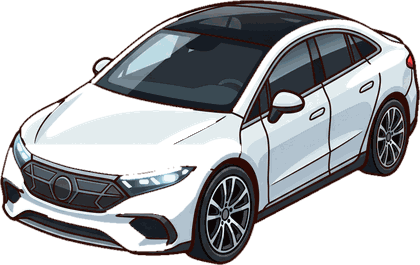
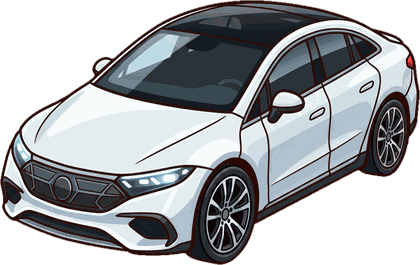
Parking : 6 voitures et 5 motos max (plus de « Grande » place), 4e niveau « Parking souterrain » (11 places) ; voiture électrique et autres carrosseries blanches détourées sans trous

diff --git a/js/assets.js b/js/assets.js
@@ -1,3 +1,3 @@
 /* généré par tools/manifest.py */
 window.ASSETS = ["ach-aga100", "ach-agr3", "ach-bets50", "ach-bets500", "ach-boo50", "ach-car1", "ach-car7", "ach-cards30", "ach-cards60", "ach-club10", "ach-combi20", "ach-combi3", "ach-cool50", "ach-cr10", "ach-crp25", "ach-dance30", "ach-deal10", "ach-deal50", "ach-decos5", "ach-first-bet", "ach-garage3", "ach-gold5", "ach-hodl", "ach-jackpot", "ach-look2", "ach-lvl10", "ach-lvl20", "ach-mine10", "ach-mine200", "ach-prop1", "ach-prop4", "ach-quests5", "ach-resell25", "ach-rigmax", "ach-roul50", "ach-roul500", "ach-scr50", "ach-scr500", "ach-ser1", "ach-ser5", "ach-skin3", "ach-slots4", "ach-sneak5", "ach-spin100", "ach-spin1000", "ach-stk10", "ach-stock50", "ach-streak7", "ach-tip20", "ach-w100k", "ach-w10k", "ach-w1m", "ach-watch3", "ach-win10", "ach-win100", "ach-win500", "act-collab", "act-live", "act-rest", "act-shoot", "act-trip", "app-agence", "app-bank", "app-bets", "app-binder", "app-boosters", "app-crypto", "app-immo", "app-missions", "app-msg", "app-objets", "app-settings", "art-c-signed", "art-coach-foot", "art-coach-tennis", "art-fan-ultra", "art-k-b1", "art-k-b10", "art-k-b11", "art-k-b12", "art-k-b2", "art-k-b3", "art-k-b4", "art-k-b5", "art-k-b6", "art-k-b7", "art-k-b8", "art-k-b9", "art-k-f1", "art-k-f10", "art-k-f11", "art-k-f12", "art-k-f13", "art-k-f14", "art-k-f15", "art-k-f16", "art-k-f17", "art-k-f18", "art-k-f19", "art-k-f2", "art-k-f20", "art-k-f21", "art-k-f22", "art-k-f23", "art-k-f24", "art-k-f3", "art-k-f4", "art-k-f5", "art-k-f6", "art-k-f7", "art-k-f8", "art-k-f9", "art-k-t1", "art-k-t10", "art-k-t11", "art-k-t12", "art-k-t2", "art-k-t3", "art-k-t4", "art-k-t5", "art-k-t6", "art-k-t7", "art-k-t8", "art-k-t9", "art-mascot", "art-ref-foot", "badge-xe", "bed-laptop-f", "bed-laptop-m", "bg-city", "bg-city-hiver", "bg-city-neon", "bg-city-renov", "bld-appart", "bld-appart-neon", "bld-appart-renov", "bld-balto", "bld-balto-neon", "bld-balto-renov", "bld-bijou", "bld-casino", "bld-casino-neon", "bld-casino-renov", "bld-club", "bld-club-renov", "bld-garage", "bld-kiosque", "bld-kiosque-hiver", "bld-kiosque-neon", "bld-kiosque-renov", "bld-parking", "bld-shop", "bld-shop-neon", "bld-shop-renov", "bld-six", "bld-six-neon", "bld-six-off", "bld-six-renov", "bld-tour", "bonus-airdrop", "bonus-cash", "bonus-freebet", "bonus-lingots", "bonus-ticket", "bonus-xp", "booster-pack", "btn-momo", "btn-setup", "btn-upgrade", "card-back", "card-back-crea", "card-bg-basket", "card-bg-foot", "card-bg-rugby", "card-bg-tennis", "casino-machine", "cat-car", "cat-card", "cat-gem", "cat-gold", "cat-moto", "cat-sneaker", "cat-trophy", "cat-watch", "chip-1", "chip-10", "chip-100", "chip-25", "chip-5", "chip-500", "club-door", "club-room", "coin-btk", "coin-dgk", "coin-eta", "coin-lmn", "coin-ppc", "coin-slr", "cr-eva", "cr-ines", "cr-jade", "cr-kim", "cr-leila", "cr-lola", "cr-mila", "cr-nora", "cr-rose", "cr-sasha", "cred-boss", "cred-caid", "cred-hustler", "cred-magnat", "crest-b1", "crest-b10", "crest-b11", "crest-b12", "crest-b2", "crest-b3", "crest-b4", "crest-b5", "crest-b6", "crest-b7", "crest-b8", "crest-b9", "crest-f1", "crest-f10", "crest-f11", "crest-f12", "crest-f13", "crest-f14", "crest-f15", "crest-f16", "crest-f17", "crest-f18", "crest-f19", "crest-f2", "crest-f20", "crest-f21", "crest-f22", "crest-f23", "crest-f24", "crest-f3", "crest-f4", "crest-f5", "crest-f6", "crest-f7", "crest-f8", "crest-f9", "crest-r1", "crest-r2", "crest-r3", "crest-r4", "crest-r5", "crest-r6", "deco-chaudron", "deco-citrouilles", "deco-dc-arcade", "deco-dc-ball", "deco-dc-bench", "deco-dc-car", "deco-dc-flags", "deco-dc-fountain", "deco-dc-kebab", "deco-dc-lamp", "deco-dc-palm", "deco-dc-posts", "deco-dc-statue", "deco-dc-trophy", "deco-toiles", "deco-tombe", "ev-boost", "ev-cdm-bg", "ev-cdm-board", "ev-cdm-candy", "ev-cdm-chest", "ev-cdm-cup", "ev-rig", "ev-sale", "ev-xp", "frame-cdm", "frame-gold", "frame-six", "full-c-ace", "full-c-ballon", "full-c-dunk", "full-c-essai", "full-c-final", "full-c-goat", "full-c-graded", "full-coach", "full-k-b4", "full-k-f4", "full-k-f8", "full-k-t1", "full-rookie", "fx-smoke", "gear-cam", "gear-cosplay", "gear-gown", "gear-mic", "gear-ring", "gear-spa", "gear-sport", "gear-studio", "gear-travel", "gift-big", "gift-open", "graded-slab", "guide", "hab-club", "hab-drink", "hab-smoke", "hdr-daily", "hdr-levelup", "hdr-missions", "hdr-settings", "ic-ad-reward", "ic-bus", "ic-club-bar", "ic-club-dance", "ic-club-dj", "ic-club-door", "ic-club-lounge", "ic-club-vip", "ic-ev-cdm", "ic-promo", "ic-promo-bf", "ic-promo-halloween", "ic-promo-noel", "ic-rumor", "ic-shelf", "ic-shop-lingots", "ic-shop-ville", "ic-truck", "ic-videur", "icon-arrowL", "icon-arrowR", "icon-bolt", "icon-cash", "icon-check", "icon-gear", "icon-gift", "icon-lingot", "icon-lock", "icon-mute", "icon-sound", "icon-star", "icon-treasure", "icon-trophy", "item-c-1st", "item-c-dragon", "item-c-holo", "item-c-psa10", "item-c-signed", "item-cr-betonnard", "item-cr-biscotto", "item-cr-bitumouche", "item-cr-canardo", "item-cr-chenillette", "item-cr-cosmo", "item-cr-crocodalle", "item-cr-electrochat", "item-cr-escargoat", "item-cr-fenekko", "item-cr-flamenkoh", "item-cr-fourmidable", "item-cr-golemneon", "item-cr-gorilleur", "item-cr-grenouf", "item-cr-herissnik", "item-cr-hiboss", "item-cr-kaiju", "item-cr-kebabzor", "item-cr-kraken", "item-cr-licornette", "item-cr-liontours", "item-cr-louperiph", "item-cr-matouz", "item-cr-moustikass", "item-cr-pandagrillz", "item-cr-parrain", "item-cr-phenix", "item-cr-pigeonnard", "item-cr-poubellou", "item-cr-ratchou", "item-cr-requinoir", "item-cr-scarabling", "item-cr-serpentdor", "item-cr-taupecash", "item-cr-tigresko", "item-cr-trotilezard", "item-cr-yetiz", "item-g-comic", "item-g-diam", "item-g-earrings", "item-g-egg", "item-g-emerald", "item-g-pearl", "item-g-roman", "item-g-ruby", "item-g-sapphire", "item-m-cafe", "item-m-chopper", "item-m-cross", "item-m-road", "item-m-scoot", "item-m-sport", "item-m-touring", "item-m-trike", "item-o-bar10", "item-o-bar100", "item-o-chain", "item-o-lion", "item-o-napo", "item-o-nugget", "item-o-ring", "item-p-flat", "item-p-office", "item-p-park", "item-p-studio", "item-s-basket", "item-s-camo", "item-s-chunky", "item-s-collab", "item-s-court", "item-s-gold", "item-s-graff", "item-s-lux", "item-s-moon", "item-s-neon", "item-s-retro", "item-s-runner", "item-s-skate", "item-st-kbc", "item-st-mtr", "item-st-nbk", "item-st-pxl", "item-st-sol", "item-st-stw", "item-t-collect", "item-t-combi", "item-t-first", "item-t-hodl", "item-t-jackpot", "item-v-city", "item-v-electric", "item-v-gti", "item-v-hyper", "item-v-muscle", "item-v-pickup", "item-v-rally", "item-v-super", "item-v-van", "item-w-chrono", "item-w-digital", "item-w-diver", "item-w-field", "item-w-grail", "item-w-iced", "item-w-pilot", "item-w-pocket", "item-w-quartz", "item-w-sq", "item-w-steel", "item-w-tourb", "item-w-unique", "load-1", "load-2", "load-3", "load-4", "load-5", "load-6", "load-7", "load-8", "logo", "minerv-0", "minerv-1", "minerv-2", "minerv-3", "minerv-4", "nav-bets", "nav-city", "nav-home", "nav-shop", "nav-trading", "nav-wallet", "niche-beaute", "niche-bienetre", "niche-cuisine", "niche-danse", "niche-fitness", "niche-gaming", "niche-mode", "niche-musique", "niche-voyage", "pack-collec", "pack-magnat", "pack-noads", "pack-pass", "pack-start", "parking-bg", "pc-0", "pc-1", "pc-2", "pcv-0", "pcv-1", "pcv-2", "pcv-r1", "pcv-r2", "pcv-r3", "pcv-r4", "phone-wall", "pin-demons", "pin-fantomes", "pin-vampires", "pin-zombies", "player-t1", "player-t10", "player-t11", "player-t12", "player-t2", "player-t3", "player-t4", "player-t5", "player-t6", "player-t7", "player-t8", "player-t9", "pop-starter", "rig-0", "rig-1", "rig-2", "rig-3", "rig-4", "rigv-0", "rigv-1", "rigv-2", "rigv-3", "rigv-4", "ringlight", "room-f-0", "room-f-1", "room-f-2", "room-m-0", "room-m-1", "room-m-2", "roulette-felt", "roulette-hub", "shop-hero", "shop-lingot-1", "shop-lingot-2", "shop-lingot-3", "shop-lingot-4", "shop-lingot-5", "shop-lingot-6", "skin-boss", "skin-boss-bust", "skin-doudoune", "skin-doudoune-bust", "skin-flambeur", "skin-flambeur-bust", "skin-gold", "skin-gold-bust", "skin-hoodie", "skin-hoodie-bust", "skin-sportive", "skin-sportive-bust", "skin-survet", "skin-survet-bust", "slot-bar", "slot-bell", "slot-cherry", "slot-diam", "slot-lemon", "slot-seven", "team-demons", "team-fantomes", "team-vampires", "team-zombies", "ticket-flash", "tip-crypto", "tip-market", "tip-sport", "tk-astro", "tk-banco", "tk-black", "tk-flash", "tk-millio", "tk-morpion", "tkbg-astro", "tkbg-banco", "tkbg-black", "tkbg-flash", "tkbg-millio", "tkbg-morpion", "ui-avatar-frame", "ui-badge", "ui-bar-fill", "ui-bar-frame", "ui-btn-blue", "ui-btn-close", "ui-btn-green", "ui-btn-grey", "ui-btn-plus", "ui-btn-purple", "ui-btn-red", "ui-btn-yellow", "ui-card", "ui-casino-frame", "ui-casino-header", "ui-navbtn", "ui-panel", "ui-pill", "ui-ribbon", "ui-tab-off", "ui-tab-on", "ui-tuto-arrow"];
-window.ASSET_V = 1791369431;
+window.ASSET_V = 1791370510;

diff --git a/js/ui.js b/js/ui.js
@@ -572,8 +572,8 @@
     const s = st(), cars = Object.keys(s.owned).flatMap(id => G.placeOf(id) === 'park' ? s.owned[id].map(() => G.item(id)) : []), n = G.garageSlots();
     // les voitures sur les places en épi, les motos sur la grande place du milieu : jamais l'une à la place de l'autre (sauf s'il n'y a plus de place du bon type)
     const P = parkSlots(), motos = cars.filter(c => c.cat === 'moto'), autos = cars.filter(c => c.cat !== 'moto');
-    const carSpots = P.car.concat(motos.length ? [] : [P.big]), motoSpots = P.moto.slice(0, motos.length ? P.moto.length : 0);
-    const placed = autos.map((c, i) => [c, carSpots[i]]).concat(motos.map((m, i) => [m, motoSpots[i] || P.car[autos.length + i - motoSpots.length]]));
+    const carSpots = P.car, motoSpots = P.moto;   // 6 voitures et 5 motos au maximum, chacun sur ses places
+    const placed = autos.map((c, i) => [c, carSpots[i]]).concat(motos.map((m, i) => [m, motoSpots[i]]));
     const slots = placed.filter(([, p]) => p).sort((a, b) => a[1][1] - b[1][1]).map(([it, [x, y, w, f]]) =>
       `<button class="pk-car${f ? ' flip' : ''}" data-act="itemInfo" data-id="${it.id}" aria-label="${esc(it.name)}" style="left:${x}%;top:${y}%;width:${w}%">${itemPic(it)}</button>`).join('');
     // pleine page comme l'appart : le parking remplit tout l'écran, la place reste calée sur le dessin quel que soit le téléphone
@@ -596,7 +596,7 @@
   const PKP = { on: false, sel: 'car:0', pv: {}, empty: false, top: true, auto: null, drag: null };
   const pkName = k => { const [t, i] = k.split(':'); return t === 'big' ? 'Grande' : (t === 'car' ? 'C' : 'M') + (+i + 1); };
   const pkSpot = k => { const [t, i] = k.split(':'); return t === 'big' ? PKP.L.big : PKP.L[t][+i]; };
-  const pkKeys = () => PKP.L.car.map((_, i) => 'car:' + i).concat(PKP.L.moto.map((_, i) => 'moto:' + i), ['big']);
+  const pkKeys = () => PKP.L.car.map((_, i) => 'car:' + i).concat(PKP.L.moto.map((_, i) => 'moto:' + i));
   const pkVehs = k => D.ITEMS.filter(i => i.cat === (k.startsWith('moto') ? 'moto' : 'car'));
   // véhicule d'essai d'une place : celui choisi, sinon un différent par place
   const pkVeh = k => { const l = pkVehs(k), i = k === 'big' ? 6 : +k.split(':')[1]; return l.find(x => x.id === PKP.pv[k]) || l[i % l.length]; };

diff --git a/js/data.js b/js/data.js
@@ -44,7 +44,8 @@
   // le parking du Garage Prestige (une voiture ou une moto par place)
   // le coffre de la Bijouterie (or et raretés) : places limitées, qu'on agrandit comme le parking
   const SAFES = [{ slots: 4, cost: 0, name: 'Petit coffre' }, { slots: 8, cost: 20000, name: 'Coffre-fort' }, { slots: 14, cost: 90000, name: 'Salle forte' }, { slots: 24, cost: 350000, name: 'Chambre forte' }];
-  const GARAGES = [{ slots: 2, cost: 0, name: 'Box simple' }, { slots: 4, cost: 25000, name: 'Garage double' }, { slots: 7, cost: 90000, name: 'Parking privé' }];
+  const GARAGES = [{ slots: 2, cost: 0, name: 'Box simple' }, { slots: 4, cost: 25000, name: 'Garage double' }, { slots: 7, cost: 90000, name: 'Parking privé' }, { slots: 11, cost: 250000, name: 'Parking souterrain' }];
+  const PARK_MAX = { car: 6, moto: 5 };   // places peintes du parking : jamais plus de 6 voitures et 5 motos
   // La Tour : l'immobilier (un loyer par jour, même hors ligne, max 3 jours en attente) et la bourse (actions fictives du quartier)
   const PROPS = [
     { id: 'p-park',   name: 'Place de parking',     price: 3000,   rent: 120,   lvl: 12, icon: '🅿', desc: 'Petit loyer, zéro souci.' },
@@ -934,7 +935,7 @@
   window.DATA = {
     UNLOCK, SAFES, NEXT_EVENT, START, SKINS, XP_TABLE, MAX_LVL, BUILDINGS, COINS, CRYPTO_FEE, PCS, TICK_S, HISTORY, MOODS, MOOD_MIN, RIG,
     PC_UPGRADES, PC_DROP, MINE, FINDS, PCX, AGENCE, BOOK_MARGIN, TEAMS, SPORTS, MATCH, BET_MAX, COMBI_LVL, SCRATCH, SLOT, ROULETTE,
-    ACHIEVEMENTS, PARK_SLOTS, GARAGES, PROPS, PROP, STOCKS, BOURSE, CITY_LOOKS, BLD_SCALE, CRYPTO_REVERT, ITEM_CATS, ITEMS, BUY_MARKUP, SELL_FEE, RUMORS, RUMOR_MIN, ROOMS, ROOM_LAYOUT, SHELF_SLOTS, KIOSK, BAILOUT, DAILY, QUESTS, TIPS, HABITS, QUIT_H, HEALTH_COST,
+    ACHIEVEMENTS, PARK_SLOTS, PARK_MAX, GARAGES, PROPS, PROP, STOCKS, BOURSE, CITY_LOOKS, BLD_SCALE, CRYPTO_REVERT, ITEM_CATS, ITEMS, BUY_MARKUP, SELL_FEE, RUMORS, RUMOR_MIN, ROOMS, ROOM_LAYOUT, SHELF_SLOTS, KIOSK, BAILOUT, DAILY, QUESTS, TIPS, HABITS, QUIT_H, HEALTH_COST,
     CITY_SHOP, IAP, PROMOS, SEASONS, CAMPAIGNS, PROMO_LOOKS, PROMO_DAYS, ADS, LINGOT, SIX, CDM, EV_SHOP, CLUB, EXT_PLACES, SERIES, BOOSTER, CHALLENGES, CHAL_CASH, WEEKLY, WEEK_REWARD, RANKS, EVENTS, DEALS, LEVEL_REWARD
   };
 })();

diff --git a/js/tuto.js b/js/tuto.js
@@ -81,7 +81,7 @@
     parking: [
       { say: () => 'Ta première caisse ! Regarde : <b>l\'entrée de ton parking</b> vient d\'apparaître, juste à côté de l\'arrêt de bus. Touche-la.', target: '.bld[data-id=parking]', before: () => U.focusBld('parking'), done: () => modalOpen() && title() === 'Mon parking' },
       { say: () => 'Tes véhicules sont garés ici : <b>les voitures sur les places en épi, les motos au milieu</b>. Touche un véhicule pour voir ce qu\'il vaut : sa cote bouge, tu peux le revendre quand elle monte.', target: '.park-full .pk-car', btn: 'Compris' },
-      { say: () => 'Il n\'y a que <b>2 places</b> au début. Quand c\'est plein, agrandis ton garage au <b>Garage Prestige</b> (en bus) : 4 places, puis 7.', target: '.park-full .pk-count, .park-full .pk-foot', btn: 'Trop bien' }]
+      { say: () => 'Il n\'y a que <b>2 places</b> au début. Agrandis ton garage au <b>Garage Prestige</b> (en bus) : jusqu\'à 6 voitures et 5 motos.', target: '.park-full .pk-count, .park-full .pk-foot', btn: 'Trop bien' }]
   });
   // le mot de la fin du tuto : seulement après la visite des lieux du début (Kiosque, arrêt de bus)
   BLD.outro = [{ say: () => `Voilà, t'as les bases ! Le but : faire grimper ton <b>patrimoine</b> (en haut à droite). Reviens chaque jour pour ton <b>cadeau</b> et ton booster. ${nextOpen()}Et si un jour tu sais plus quoi faire, touche <b>ma tête</b> à droite de l'écran : je te dirai quoi faire pour avancer. À toi de jouer !`, btn: 'C\'est parti' }];

diff --git a/js/game.js b/js/game.js
@@ -720,6 +720,8 @@
     if (!inStock(id)) return { err: 'Plus en rayon : reviens au prochain arrivage.' };
     if (onShelf(id) && ownedCount() >= roomSlots()) return { err: 'Plus de place chez toi : déménage via ton téléphone.' };
     if (placeOf(id) === 'park' && parkedCount() >= garageSlots()) return { err: 'Ton parking est plein : agrandis-le ou vends un véhicule.' };
+    if (placeOf(id) === 'park') { const k = item(id).cat === 'moto' ? 'moto' : 'car', n = Object.entries(st.owned).reduce((t, [j, a]) => t + (placeOf(j) === 'park' && (item(j).cat === 'moto' ? 'moto' : 'car') === k ? a.length : 0), 0);
+      if (n >= D.PARK_MAX[k]) return { err: k === 'moto' ? 'Toutes les places motos sont prises (5 max) : vends une moto.' : 'Toutes les places voitures sont prises (6 max) : vends une voiture.' }; }
     if (placeOf(id) === 'safe' && safeCount() >= safeSlots()) return { err: 'Ton coffre est plein : agrandis-le ou revends une pièce.' };
     const p = buyPrice(id); if (!pay(p)) return { err: 'Pas assez de cash.' };
     (st.owned[id] = st.owned[id] || []).push({ paid: p, t: now() });

diff --git a/game.html b/game.html
@@ -143,7 +143,7 @@
   // Chargement du jeu. En local : les fichiers du dossier. Mis à jour depuis internet (index.html) : le code vient
   // de raw.githubusercontent (rapide et toujours à jour), les images du dossier local quand on joue sur son ordi.
   (function () {
-    var V = '?v=357', FILES = ['js/layout.js', 'js/data.js', 'js/content.js', 'js/assets.js', 'js/game.js', 'js/audio.js', 'js/ui.js', 'js/casino.js', 'js/scratch.js', 'js/balto.js', 'js/agence.js', 'js/tuto.js', 'js/online.js', 'js/push.js'].slice(), CSS = 'css/style.css';
+    var V = '?v=358', FILES = ['js/layout.js', 'js/data.js', 'js/content.js', 'js/assets.js', 'js/game.js', 'js/audio.js', 'js/ui.js', 'js/casino.js', 'js/scratch.js', 'js/balto.js', 'js/agence.js', 'js/tuto.js', 'js/online.js', 'js/push.js'].slice(), CSS = 'css/style.css';
     var m = document.baseURI.match(/^https:\/\/cdn\.jsdelivr\.net\/gh\/([^@]+)@([^/]+)\//);
     if (!m) {
       document.write('<link rel="stylesheet" href="' + CSS + V + '">');

diff --git a/tools/process.py b/tools/process.py
@@ -12,7 +12,7 @@ src, dst = os.path.join(root, 'originals-2k'), os.path.join(root, 'assets/img')
 # (x, y) = centre de la poche, tel que l'affiche --poches ; ou {'n': [numéros]} quand deux poches ont le même centre.
 # Pour choisir : python3 tools/process.py --poches <nom>  (écrit /tmp/poches-<nom>.png avec les poches numérotées).
 POCKETS = {
-    'ic-shop-ville': 'all', 'item-g-earrings': [], 'niche-gaming': 'all', 'niche-mode': 'all', 'frame-cdm': 'all', 'ev-cdm-cup': 'sides',   # vides entre le palmier et le banc
+    'ic-shop-ville': 'all', 'item-v-electric': [], 'item-v-van': [], 'item-v-city': [], 'item-m-scoot': [],   # carrosseries blanches : pas de trous 'item-g-earrings': [], 'niche-gaming': 'all', 'niche-mode': 'all', 'frame-cdm': 'all', 'ev-cdm-cup': 'sides',   # vides entre le palmier et le banc
     # revue du 03/10 : fonds restés coincés dans des formes fermées
     'slot-bell': 'all', 'ic-club-dj': 'all', 'ic-club-door': 'all', 'ev-sale': 'all', 'gear-gown': 'all', 'gear-cosplay': 'all', 'deco-dc-bench': 'all', 'deco-dc-lamp': 'all',
     # cadres d'avatar : le centre blanc est un trou (l'avatar passe dessous)
